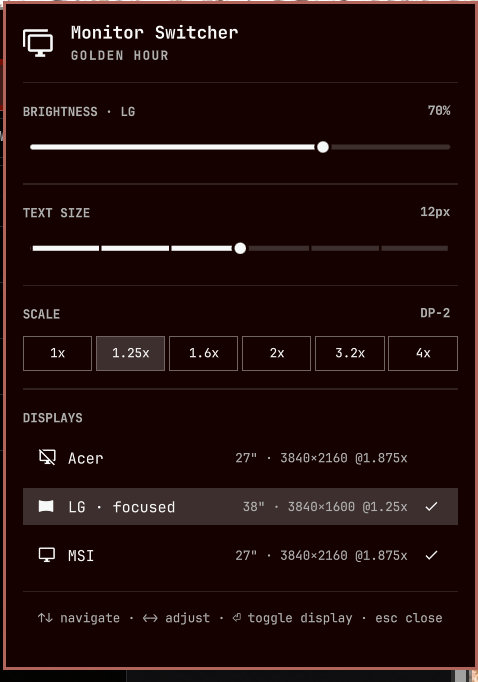
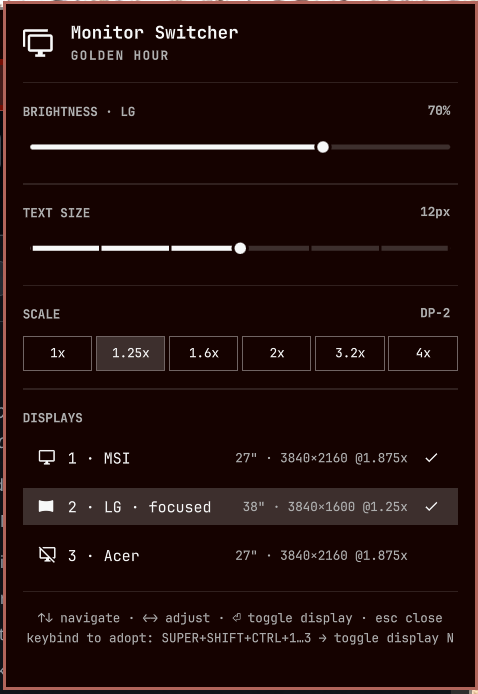
2.5.0 — numbered displays + adoptable keybind marketing
- Backend: numeric monitor ids — every place an output/alias works, a bare
  number (1-based, config/pack order, left-to-right) works too:
  'monitor-switcher toggle 2'. state --json gains per-monitor num; state
  prints it.
- Panel: rows are numbered and sorted by pack order (sortedDisplays();
  Repeater model and activateCursor share the array), so row N is what
  'toggle N' hits — reads left-to-right like the physical layout.
- Panel footer gains an adoptable-keybind hint when 2+ displays are
  managed: 'SUPER+SHIFT+CTRL+1…N → toggle display N' (unclaimed by Omarchy
  defaults; described o.bind entries surface in SUPER+K).
- README: keyboard switching paragraph in 'Why this exists', numeric
  keybind snippet, SUPER+K payoff note. UPSTREAM: patch 5/9 updated.
- preview.png: numbered rows, both hints, one monitor toggled off.

diff --git a/Panel.qml b/Panel.qml
@@ -108,6 +108,21 @@ Panel {
     return 0
   }
 
+  // monitor-switcher fork: rows sorted by the backend's config-order number
+  // (pack order, left-to-right) so the list reads like the physical layout
+  // and matches `monitor-switcher toggle N`. Falls back to compositor order
+  // until meta arrives.
+  function sortedDisplays() {
+    var meta = root.switcherMeta || {}
+    var arr = root.displays.slice()
+    arr.sort(function(a, b) {
+      var na = (meta[a.name] && meta[a.name].num) || 999
+      var nb = (meta[b.name] && meta[b.name].num) || 999
+      return na - nb
+    })
+    return arr
+  }
+
   function moveCursor(delta) {
     var sections = visibleSections
     if (!sections || sections.length === 0) return
@@ -160,8 +175,10 @@ Panel {
       setScale(scaleValues[selectedIndex])
       return
     }
+    // monitor-switcher fork: index the same pack-order-sorted rows the
+    // Repeater renders, so keyboard activation hits the row under the cursor.
     if (focusSection === "monitors" && selectedIndex >= 0 && selectedIndex < displays.length) {
-      var d = displays[selectedIndex]
+      var d = sortedDisplays()[selectedIndex]
       if (d) toggleDisplay(d.name, d.enabled)
     }
     // brightness: no separate action; the slider value is the action.
@@ -911,7 +928,7 @@ Panel {
             }
 
             Repeater {
-              model: root.displays
+              model: root.sortedDisplays() // monitor-switcher fork: pack-order rows
 
               MonitorRow {
                 required property var modelData
@@ -929,14 +946,30 @@ Panel {
             foreground: root.bar.foreground
           }
 
-          Text {
+          Column {
             width: parent.width
-            text: "↑↓ navigate · ←→ adjust · ⏎ toggle display · esc close" // monitor-switcher fork
-            color: Qt.darker(root.bar.foreground, 1.4)
-            font.family: root.bar.fontFamily
-            font.pixelSize: Style.font.caption
-            horizontalAlignment: Text.AlignHCenter
-            wrapMode: Text.WordWrap
+            spacing: Style.space(2)
+
+            Text {
+              width: parent.width
+              text: "↑↓ navigate · ←→ adjust · ⏎ toggle display · esc close"
+              color: Qt.darker(root.bar.foreground, 1.4)
+              font.family: root.bar.fontFamily
+              font.pixelSize: Style.font.caption
+              horizontalAlignment: Text.AlignHCenter
+              wrapMode: Text.WordWrap
+            }
+
+            Text {
+              width: parent.width
+              visible: root.displays.length > 1
+              text: "keybind to adopt: SUPER+SHIFT+CTRL+1…" + root.displays.length + " → toggle display N"
+              color: Qt.darker(root.bar.foreground, 1.4)
+              font.family: root.bar.fontFamily
+              font.pixelSize: Style.font.caption
+              horizontalAlignment: Text.AlignHCenter
+              wrapMode: Text.WordWrap
+            }
           }
 
           Item {
@@ -1016,7 +1049,10 @@ Panel {
 
       Text {
         id: rowLabel
-        text: ((monitorRow.meta && monitorRow.meta.alias) || monitorRow.display.name)
+        // monitor-switcher fork: number rows by config order so the row
+        // matches `monitor-switcher toggle N` / keybinds 1..N.
+        text: (monitorRow.meta && monitorRow.meta.num ? String(monitorRow.meta.num) + " · " : "")
+              + ((monitorRow.meta && monitorRow.meta.alias) || monitorRow.display.name)
               + (monitorRow.display.focused ? " · focused" : "")
         color: root.bar.foreground
         font.family: root.bar.fontFamily

diff --git a/README.md b/README.md
@@ -41,6 +41,13 @@ Monitor Switcher closes that gap:
 - **Zero feature loss** — the built-in widget's full feature set
   (brightness, text size, scale) with real toggles on top
 
+And switching deserves a keyboard home. Omarchy ships no keybind to power an
+external display on or off, so display rows are **numbered 1…N
+left-to-right** and the CLI answers `toggle 1`…`toggle N` — bind
+`SUPER+SHIFT+CTRL+1…N` (a combo Omarchy leaves unclaimed) and every panel on
+your desk is one keystroke away, listed in the `SUPER+K` keybindings sheet
+like a first-party shortcut.
+
 ### Who it's for
 
 - **Desktop users with two or more external monitors** — the audience the
@@ -135,7 +142,7 @@ Scrolling the bar glyph adjusts brightness.
 ```bash
 monitor-switcher state            # table of monitors (+ overlap warnings)
 monitor-switcher state --json     # machine-readable
-monitor-switcher toggle MSI       # by alias or output name (toggle DP-3)
+monitor-switcher toggle MSI       # alias, output name, or number: toggle 2
 monitor-switcher disable DP-2
 monitor-switcher enable LG
 monitor-switcher apply            # re-apply layout from config
@@ -162,11 +169,21 @@ hotplug — and rotation (odd transforms) is accounted for.
 your plugin id differs):
 
 ```lua
-o.bind("SUPER + SHIFT + CTRL + 1", "Toggle MSI monitor",
-  "/home/USER/.config/omarchy/plugins/case.monitor-switcher/bin/monitor-switcher toggle MSI")
+-- 1/2/3 = left/center/right in the pack order — numbers are allocated
+-- automatically, need no aliases, and survive output renumbering.
+o.bind("SUPER + SHIFT + CTRL + 1", "Toggle display 1",
+  "/home/USER/.config/omarchy/plugins/case.monitor-switcher/bin/monitor-switcher toggle 1")
+o.bind("SUPER + SHIFT + CTRL + 2", "Toggle display 2",
+  "/home/USER/.config/omarchy/plugins/case.monitor-switcher/bin/monitor-switcher toggle 2")
+o.bind("SUPER + SHIFT + CTRL + 3", "Toggle display 3",
+  "/home/USER/.config/omarchy/plugins/case.monitor-switcher/bin/monitor-switcher toggle 3")
 ```
 
-Aliases make binds survive output renumbering (DP-1 ↔ DP-3 shuffling).
+`SUPER+SHIFT+CTRL+<number>` is unclaimed by Omarchy defaults, and because
+the binds carry descriptions they show up in Omarchy's `SUPER+K`
+keybindings sheet like first-party shortcuts. Prefer names? Aliases work
+everywhere numbers do (`toggle MSI`) and likewise survive renumbering
+(DP-1 ↔ DP-3 shuffling).
 
 **IPC:** the panel answers on its own target, e.g.
 `omarchy-shell case.monitor-switcher state` (brightness, focused monitor,

diff --git a/UPSTREAM.md b/UPSTREAM.md
@@ -38,10 +38,15 @@ grep -n "monitor-switcher fork" Panel.qml
    Switcher"`.
 4. **Panel title** — hero reads "Monitor Switcher" instead of "Display", so
    screenshots in issue reports are attributable to the right project.
-5. **Named rows** — a second `Process` polls `bin/monitor-switcher state
-   --json` into a `switcherMeta` map (fired from `refresh()`); DISPLAYS rows
-   render the alias and a `WxH @scalex` caption instead of the bare output
-   name. Display-only; all state logic still runs on `root.displays`.
+5. **Named, numbered rows** — a second `Process` polls
+   `bin/monitor-switcher state --json` into a `switcherMeta` map (fired from
+   `refresh()`); DISPLAYS rows render the config-order number, the alias,
+   and a `WxH @scalex` caption instead of the bare output name. The number
+   matches the backend's numeric ids (`monitor-switcher toggle N`), and rows
+   are **sorted by that number** (`sortedDisplays()`; the Repeater model and
+   `activateCursor` index the same array, so keyboard activation tracks) —
+   the list reads left-to-right like the physical layout. Ordering aside, all
+   state logic still runs on `root.displays`.
 6. **Brightness target label** — the BRIGHTNESS section header names the
    focused display it controls (`BRIGHTNESS · ACER`), mirroring upstream's
    SCALE header pattern. Upstream's slider only ever targets the focused
@@ -62,9 +67,11 @@ grep -n "monitor-switcher fork" Panel.qml
    successful toggle. Failed toggles (last-display guard) don't reopen. If
    the disabled monitor owned this bar, nothing reopens — correct,
    since that surface is gone.
-9. **Keyboard hints footer** — a `PanelSeparator` + centered caption under
-   the DISPLAYS section (`↑↓ navigate · ←→ adjust · ⏎ toggle display · esc
-   close`). Pure discoverability for the keyboard-first toggle flow; no
+9. **Keyboard hints footer** — a `PanelSeparator` + two centered captions
+   under the DISPLAYS section: the panel's own keys (`↑↓ navigate · ←→
+   adjust · ⏎ toggle display · esc close`) and, when more than one display
+   is managed, an adoptable-keybind tip (`SUPER+SHIFT+CTRL+1…N → toggle
+   display N`, N tracks `root.displays.length`). Pure discoverability; no
    logic.
 
 ## Re-sync procedure (after each Omarchy update)

diff --git a/CHANGELOG.md b/CHANGELOG.md
@@ -1,5 +1,24 @@
 # Changelog
 
+## 2.5.0 — 2026-08-23
+
+- **Numbered displays.** Every managed monitor now has a stable number — its
+  place in the config/pack order (left-to-right). The CLI accepts it
+  everywhere an output or alias works (`monitor-switcher toggle 2`), `state`
+  prints it, and panel rows are prefixed with it (`2 · LG · focused`), so
+  the keybind target is visible in-product. Numbers need no aliases and
+  survive output renumbering, which makes generic keybinds possible:
+  `SUPER+SHIFT+CTRL+1…N → monitor-switcher toggle 1…N` works on any
+  multi-monitor setup with zero configuration.
+- **Keybind discoverability**: the popup footer gains a second hint line
+  suggesting exactly that convention ("keybind to adopt:
+  SUPER+SHIFT+CTRL+1…N → toggle display N", shown when 2+ displays are
+  managed), and the README now documents that described `o.bind` entries
+  appear in Omarchy's `SUPER+K` keybindings sheet like first-party
+  shortcuts.
+- New preview.png: numbered rows, both footer hints, and a toggled-off
+  monitor row (slashed glyph, no check).
+
 ## 2.4.0 — 2026-08-23
 
 - **Keyboard hints footer in the popup** — a caption line under DISPLAYS
